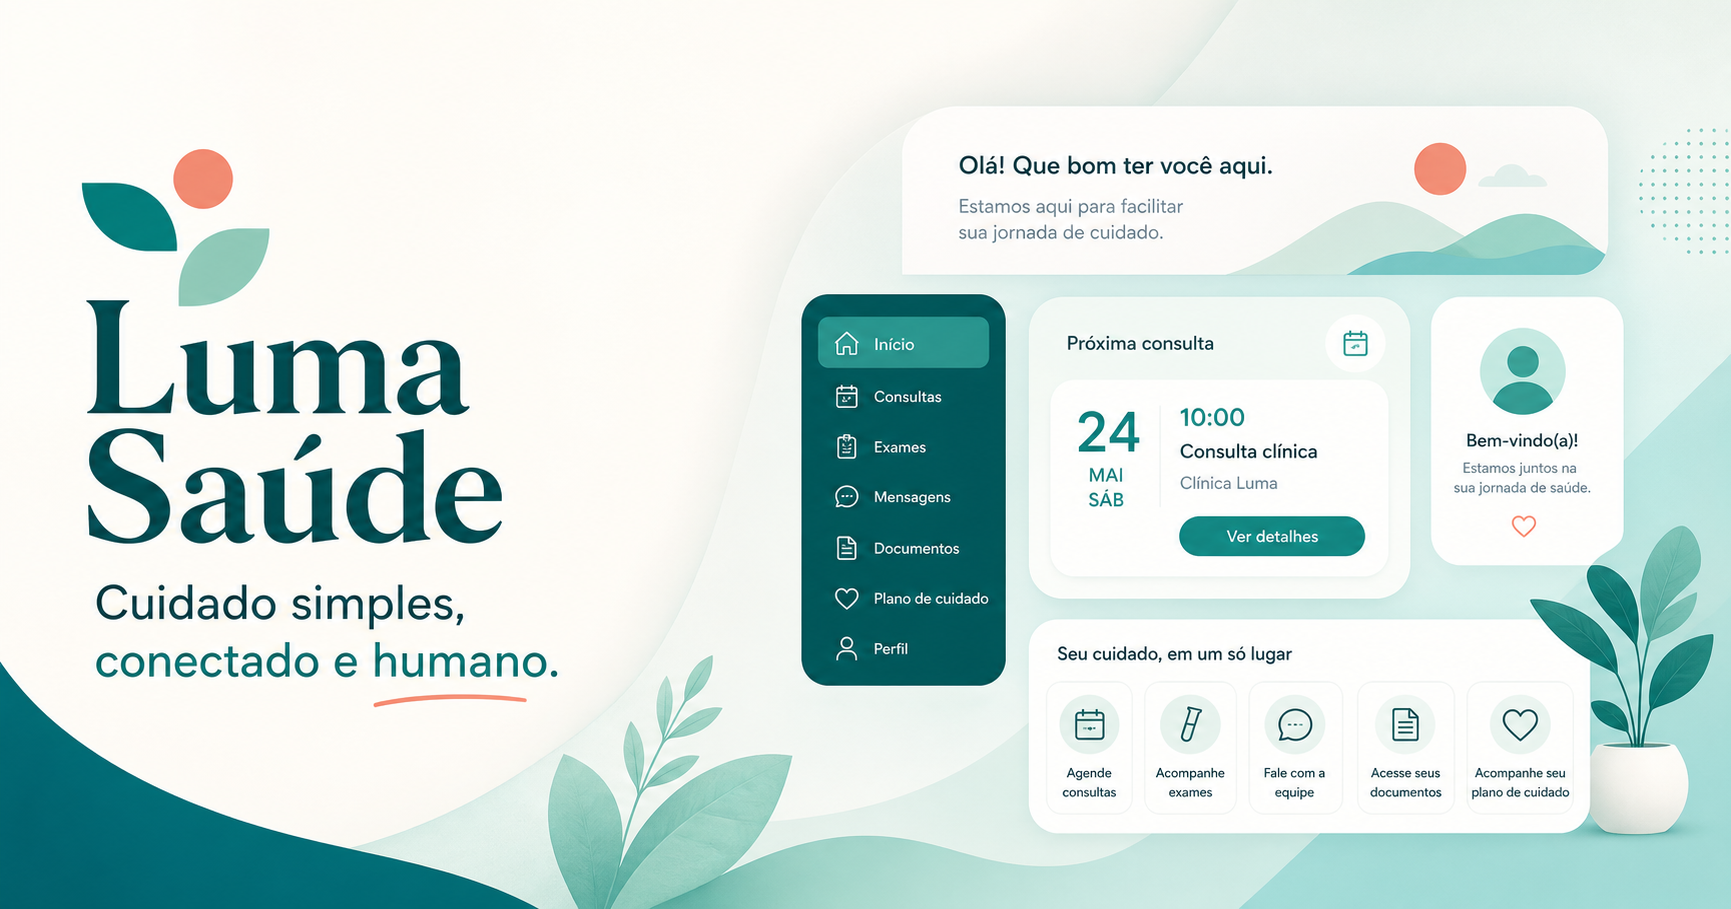
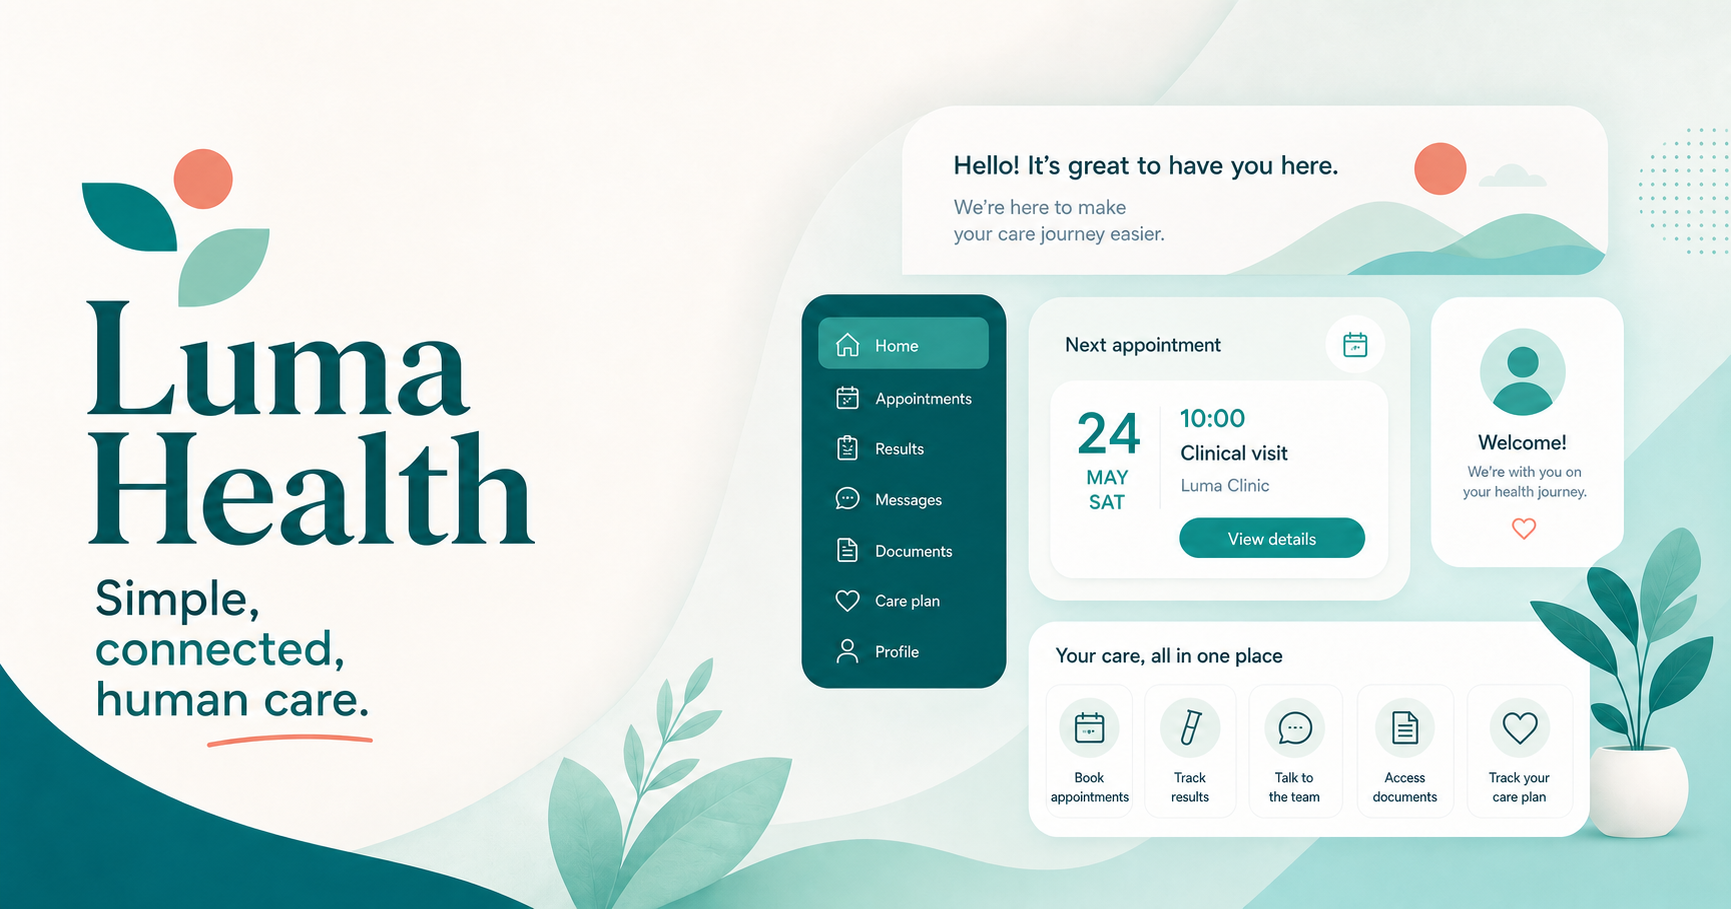
Translate Luma Health experience to English

diff --git a/app/page.tsx b/app/page.tsx
@@ -6,17 +6,17 @@ type Role = "patient" | "staff";
 type Toast = { title: string; message: string } | null;
 
 const appointments = [
-  { time: "08:30", patient: "Riley Smith", type: "Consulta de rotina", status: "Confirmada" },
-  { time: "09:15", patient: "Maria Lopez", type: "Acompanhamento", status: "Aguardando" },
-  { time: "10:00", patient: "Alex Carter", type: "Primeira consulta", status: "Confirmada" },
-  { time: "11:30", patient: "Priya Shah", type: "Retorno", status: "Confirmada" },
+  { time: "8:30 AM", patient: "Riley Smith", type: "Routine visit", status: "Confirmed" },
+  { time: "9:15 AM", patient: "Maria Lopez", type: "Follow-up", status: "Waiting" },
+  { time: "10:00 AM", patient: "Alex Carter", type: "First appointment", status: "Confirmed" },
+  { time: "11:30 AM", patient: "Priya Shah", type: "Follow-up", status: "Confirmed" },
 ];
 
-const navItems = ["Visão geral", "Consultas", "Formulários", "Resultados", "Mensagens"];
+const navItems = ["Overview", "Appointments", "Forms", "Results", "Messages"];
 
 export default function Home() {
   const [role, setRole] = useState<Role>("patient");
-  const [activeNav, setActiveNav] = useState("Visão geral");
+  const [activeNav, setActiveNav] = useState("Overview");
   const [showBooking, setShowBooking] = useState(false);
   const [appointmentBooked, setAppointmentBooked] = useState(false);
   const [intakeComplete, setIntakeComplete] = useState(false);
@@ -24,7 +24,7 @@ export default function Home() {
   const [toast, setToast] = useState<Toast>(null);
 
   const dateLabel = useMemo(() =>
-    new Intl.DateTimeFormat("pt-BR", { weekday: "long", day: "numeric", month: "long" })
+    new Intl.DateTimeFormat("en-US", { weekday: "long", day: "numeric", month: "long" })
       .format(new Date(2026, 6, 24)), []);
 
   function notify(title: string, message: string) {
@@ -36,30 +36,30 @@ export default function Home() {
     event.preventDefault();
     setAppointmentBooked(true);
     setShowBooking(false);
-    notify("Consulta agendada", "Sua consulta foi confirmada para 24 de julho, às 10:30.");
+    notify("Appointment booked", "Your appointment is confirmed for July 24 at 10:30 AM.");
   }
 
   function requestRefill() {
     setRefillStatus("pending");
-    notify("Solicitação enviada", "A equipe da clínica já pode revisar sua renovação.");
+    notify("Request submitted", "The clinic team can now review your refill request.");
   }
 
   function approveRefill() {
     setRefillStatus("approved");
-    notify("Renovação aprovada", "O paciente receberá a atualização no portal.");
+    notify("Refill approved", "The patient will see the update in the portal.");
   }
 
   return (
     <main className="app-shell">
-      <aside className="sidebar" aria-label="Navegação principal">
+      <aside className="sidebar" aria-label="Main navigation">
         <div className="brand">
           <span className="brand-mark" aria-hidden="true"><i></i><b></b></span>
-          <span>Luma <strong>Saúde</strong></span>
+          <span>Luma <strong>Health</strong></span>
         </div>
 
-        <div className="profile-switcher" aria-label="Trocar perfil de demonstração">
-          <button className={role === "patient" ? "active" : ""} onClick={() => setRole("patient")}>Paciente</button>
-          <button className={role === "staff" ? "active" : ""} onClick={() => setRole("staff")}>Equipe</button>
+        <div className="profile-switcher" aria-label="Switch demo profile">
+          <button className={role === "patient" ? "active" : ""} onClick={() => setRole("patient")}>Patient</button>
+          <button className={role === "staff" ? "active" : ""} onClick={() => setRole("staff")}>Staff</button>
         </div>
 
         <nav>
@@ -72,31 +72,31 @@ export default function Home() {
             >
               <span className="nav-icon" aria-hidden="true">{["⌂", "□", "≡", "＋", "○"][index]}</span>
               {item}
-              {item === "Mensagens" && <span className="nav-badge">2</span>}
+              {item === "Messages" && <span className="nav-badge">2</span>}
             </button>
           ))}
         </nav>
 
         <div className="sidebar-help">
           <span className="help-icon">?</span>
-          <div><strong>Precisa de ajuda?</strong><small>Fale com nossa equipe</small></div>
+          <div><strong>Need help?</strong><small>Contact our team</small></div>
         </div>
         <div className="sidebar-user">
           <span className="avatar">{role === "patient" ? "ML" : "TN"}</span>
-          <div><strong>{role === "patient" ? "Maria Lopez" : "Thiago Nunes"}</strong><small>{role === "patient" ? "Paciente demo" : "Administrador"}</small></div>
+          <div><strong>{role === "patient" ? "Maria Lopez" : "Thiago Nunes"}</strong><small>{role === "patient" ? "Demo patient" : "Administrator"}</small></div>
           <span className="more">•••</span>
         </div>
       </aside>
 
       <section className="workspace">
         <header className="topbar">
-          <button className="mobile-brand" onClick={() => setActiveNav("Visão geral")} aria-label="Voltar à visão geral">
-            <span className="brand-mark small" aria-hidden="true"><i></i><b></b></span>Luma Saúde
+          <button className="mobile-brand" onClick={() => setActiveNav("Overview")} aria-label="Back to overview">
+            <span className="brand-mark small" aria-hidden="true"><i></i><b></b></span>Luma Health
           </button>
           <div className="top-actions">
-            <button className="icon-button" aria-label="Buscar">⌕</button>
-            <button className="icon-button notification" aria-label="Notificações">♢<span></span></button>
-            <div className="top-user"><span className="avatar">{role === "patient" ? "ML" : "TN"}</span><div><strong>{role === "patient" ? "Maria Lopez" : "Thiago Nunes"}</strong><small>{role === "patient" ? "Paciente" : "Equipe clínica"}</small></div></div>
+            <button className="icon-button" aria-label="Search">⌕</button>
+            <button className="icon-button notification" aria-label="Notifications">♢<span></span></button>
+            <div className="top-user"><span className="avatar">{role === "patient" ? "ML" : "TN"}</span><div><strong>{role === "patient" ? "Maria Lopez" : "Thiago Nunes"}</strong><small>{role === "patient" ? "Patient" : "Clinic staff"}</small></div></div>
           </div>
         </header>
 
@@ -108,14 +108,14 @@ export default function Home() {
             intakeComplete={intakeComplete}
             refillStatus={refillStatus}
             onBook={() => setShowBooking(true)}
-            onCompleteIntake={() => { setIntakeComplete(true); notify("Formulário concluído", "Suas respostas foram salvas para a próxima consulta."); }}
+            onCompleteIntake={() => { setIntakeComplete(true); notify("Form completed", "Your answers were saved for your next appointment."); }}
             onRequestRefill={requestRefill}
           />
         ) : (
           <StaffDashboard refillStatus={refillStatus} onApproveRefill={approveRefill} />
         )}
 
-        <nav className="mobile-nav" aria-label="Navegação móvel">
+        <nav className="mobile-nav" aria-label="Mobile navigation">
           {navItems.slice(0, 4).map((item, index) => <button key={item} className={activeNav === item ? "active" : ""} onClick={() => setActiveNav(item)}><span>{["⌂", "□", "≡", "＋"][index]}</span>{item.split(" ")[0]}</button>)}
         </nav>
       </section>
@@ -138,67 +138,67 @@ function PatientDashboard({ activeNav, dateLabel, appointmentBooked, intakeCompl
 }) {
   return <div className="page-content">
     <div className="welcome-row">
-      <div><p className="eyebrow">PORTAL DO PACIENTE</p><h1>{activeNav === "Visão geral" ? "Olá, Maria." : activeNav}</h1><p className="subtitle">{activeNav === "Visão geral" ? "Aqui está um resumo dos seus cuidados hoje." : "Acompanhe suas informações de saúde em um só lugar."}</p></div>
-      <button className="primary-button" onClick={onBook}><span>＋</span> Agendar consulta</button>
+      <div><p className="eyebrow">PATIENT PORTAL</p><h1>{activeNav === "Overview" ? "Hello, Maria." : activeNav}</h1><p className="subtitle">{activeNav === "Overview" ? "Here is a summary of your care today." : "Keep track of your health information in one place."}</p></div>
+      <button className="primary-button" onClick={onBook}><span>＋</span> Book appointment</button>
     </div>
 
     <section className="hero-card">
       <div className="hero-copy">
-        <span className="status-pill"><i></i> PRÓXIMA CONSULTA</span>
-        <p className="hero-date">{appointmentBooked ? "24 de julho" : "Hoje, 24 de julho"}</p>
-        <h2>{appointmentBooked ? "Consulta de acompanhamento" : "Consulta com Dra. Ana Costa"}</h2>
-        <p className="doctor"><span className="doctor-avatar">AC</span><span><strong>Dra. Ana Costa</strong><small>Clínica Geral · Sala 204</small></span></p>
+        <span className="status-pill"><i></i> NEXT APPOINTMENT</span>
+        <p className="hero-date">{appointmentBooked ? "July 24" : "Today, July 24"}</p>
+        <h2>{appointmentBooked ? "Follow-up appointment" : "Appointment with Dr. Ana Costa"}</h2>
+        <p className="doctor"><span className="doctor-avatar">AC</span><span><strong>Dr. Ana Costa</strong><small>Primary Care · Room 204</small></span></p>
       </div>
       <div className="appointment-time">
-        <strong>{appointmentBooked ? "10:30" : "14:30"}</strong><span>horário local</span>
-        <button>Ver detalhes <span>→</span></button>
+        <strong>{appointmentBooked ? "10:30 AM" : "2:30 PM"}</strong><span>local time</span>
+        <button>View details <span>→</span></button>
       </div>
       <div className="hero-decoration" aria-hidden="true"><i></i><b></b><em></em></div>
     </section>
 
-    <div className="section-heading"><div><h2>Ações rápidas</h2><p>O que você gostaria de fazer?</p></div></div>
+    <div className="section-heading"><div><h2>Quick actions</h2><p>What would you like to do?</p></div></div>
     <section className="quick-grid">
-      <QuickCard color="blue" icon="□" title="Agendar consulta" text="Escolha o melhor dia e horário" action="Agendar agora" onClick={onBook} />
-      <QuickCard color="coral" icon="≡" title="Formulário de admissão" text={intakeComplete ? "Formulário enviado com sucesso" : "Leva cerca de 3 minutos"} action={intakeComplete ? "Concluído" : "Preencher formulário"} onClick={onCompleteIntake} done={intakeComplete} />
-      <QuickCard color="mint" icon="↗" title="Renovar medicamento" text={refillStatus === "approved" ? "Renovação aprovada pela clínica" : refillStatus === "pending" ? "Em análise pela equipe" : "Solicite de forma rápida e segura"} action={refillStatus === "approved" ? "Aprovada" : refillStatus === "pending" ? "Em análise" : "Solicitar renovação"} onClick={onRequestRefill} done={refillStatus !== "none"} />
+      <QuickCard color="blue" icon="□" title="Book an appointment" text="Choose the best date and time" action="Book now" onClick={onBook} />
+      <QuickCard color="coral" icon="≡" title="Intake form" text={intakeComplete ? "Form submitted successfully" : "Takes about 3 minutes"} action={intakeComplete ? "Completed" : "Complete form"} onClick={onCompleteIntake} done={intakeComplete} />
+      <QuickCard color="mint" icon="↗" title="Request a refill" text={refillStatus === "approved" ? "Refill approved by the clinic" : refillStatus === "pending" ? "Under staff review" : "Request it quickly and securely"} action={refillStatus === "approved" ? "Approved" : refillStatus === "pending" ? "Under review" : "Request refill"} onClick={onRequestRefill} done={refillStatus !== "none"} />
     </section>
 
     <section className="content-grid">
       <div className="panel activity-panel">
-        <div className="panel-heading"><div><h2>Atividade recente</h2><p>Suas últimas atualizações</p></div><button>Ver todas</button></div>
-        <Activity icon="✓" color="green" title="Resultado disponível" text="Hemograma completo" time="Hoje, 09:42" action="Visualizar" />
-        <Activity icon="↗" color="purple" title={refillStatus === "approved" ? "Renovação aprovada" : "Resumo da consulta"} text={refillStatus === "approved" ? "Losartana 50 mg" : "Consulta de 12 de julho"} time={refillStatus === "approved" ? "Agora" : "12 jul, 16:20"} action="Abrir" />
-        <Activity icon="✉" color="orange" title="Nova mensagem" text="Equipe de atendimento" time="10 jul, 11:15" action="Responder" />
+        <div className="panel-heading"><div><h2>Recent activity</h2><p>Your latest updates</p></div><button>View all</button></div>
+        <Activity icon="✓" color="green" title="Result available" text="Complete blood count" time="Today, 9:42 AM" action="View" />
+        <Activity icon="↗" color="purple" title={refillStatus === "approved" ? "Refill approved" : "Visit summary"} text={refillStatus === "approved" ? "Losartan 50 mg" : "July 12 appointment"} time={refillStatus === "approved" ? "Now" : "Jul 12, 4:20 PM"} action="Open" />
+        <Activity icon="✉" color="orange" title="New message" text="Care team" time="Jul 10, 11:15 AM" action="Reply" />
       </div>
       <aside className="panel care-panel">
-        <div className="care-header"><span className="care-mark">♥</span><div><h2>Seu cuidado em dia</h2><p>Continue assim, Maria!</p></div></div>
+        <div className="care-header"><span className="care-mark">♥</span><div><h2>Your care is on track</h2><p>Keep it up, Maria!</p></div></div>
         <div className="progress-ring"><span>75<small>%</small></span></div>
-        <div className="care-copy"><strong>3 de 4 tarefas concluídas</strong><p>Complete seu formulário antes da próxima consulta.</p></div>
-        <button onClick={onCompleteIntake}>{intakeComplete ? "Tudo pronto" : "Continuar tarefa"} <span>→</span></button>
+        <div className="care-copy"><strong>3 of 4 tasks completed</strong><p>Complete your form before your next appointment.</p></div>
+        <button onClick={onCompleteIntake}>{intakeComplete ? "All set" : "Continue task"} <span>→</span></button>
       </aside>
     </section>
-    <p className="date-note">Dados de demonstração · {dateLabel}</p>
+    <p className="date-note">Demo data · {dateLabel}</p>
   </div>;
 }
 
 function StaffDashboard({ refillStatus, onApproveRefill }: { refillStatus: "none" | "pending" | "approved"; onApproveRefill: () => void }) {
   return <div className="page-content">
-    <div className="welcome-row"><div><p className="eyebrow">PAINEL DA CLÍNICA</p><h1>Bom dia, Thiago.</h1><p className="subtitle">Acompanhe a agenda e as solicitações que precisam de atenção.</p></div><button className="secondary-button">⌕ Buscar paciente</button></div>
+    <div className="welcome-row"><div><p className="eyebrow">CLINIC DASHBOARD</p><h1>Good morning, Thiago.</h1><p className="subtitle">Track today&apos;s schedule and requests that need attention.</p></div><button className="secondary-button">⌕ Search patients</button></div>
     <section className="metric-grid">
-      <Metric value="12" label="Consultas hoje" detail="4 aguardando" tone="blue" />
-      <Metric value={refillStatus === "pending" ? "3" : "2"} label="Renovações pendentes" detail="Revisar solicitações" tone="coral" />
-      <Metric value="5" label="Formulários recebidos" detail="2 novos hoje" tone="mint" />
+      <Metric value="12" label="Appointments today" detail="4 waiting" tone="blue" />
+      <Metric value={refillStatus === "pending" ? "3" : "2"} label="Pending refills" detail="Review requests" tone="coral" />
+      <Metric value="5" label="Forms received" detail="2 new today" tone="mint" />
     </section>
     <section className="staff-layout">
       <div className="panel schedule-panel">
-        <div className="panel-heading"><div><h2>Agenda de hoje</h2><p>Quinta-feira, 24 de julho</p></div><button>Ver agenda</button></div>
-        {appointments.map(item => <div className="schedule-row" key={item.time}><strong>{item.time}</strong><span className="patient-avatar">{item.patient.split(" ").map(n => n[0]).join("")}</span><div><b>{item.patient}</b><small>{item.type}</small></div><span className={`queue-status ${item.status === "Aguardando" ? "waiting" : ""}`}>{item.status}</span><button aria-label={`Abrir prontuário de ${item.patient}`}>→</button></div>)}
+        <div className="panel-heading"><div><h2>Today&apos;s schedule</h2><p>Friday, July 24</p></div><button>View schedule</button></div>
+        {appointments.map(item => <div className="schedule-row" key={item.time}><strong>{item.time}</strong><span className="patient-avatar">{item.patient.split(" ").map(n => n[0]).join("")}</span><div><b>{item.patient}</b><small>{item.type}</small></div><span className={`queue-status ${item.status === "Waiting" ? "waiting" : ""}`}>{item.status}</span><button aria-label={`Open ${item.patient}'s record`}>→</button></div>)}
       </div>
       <div className="panel request-panel">
-        <div className="panel-heading"><div><h2>Solicitações</h2><p>Precisam da sua atenção</p></div><span className="count-badge">{refillStatus === "pending" ? 3 : 2}</span></div>
-        {refillStatus === "pending" && <div className="request-card highlighted"><div className="request-top"><span className="patient-avatar">ML</span><div><strong>Maria Lopez</strong><small>Renovação · Losartana 50 mg</small></div><span>Agora</span></div><p>Uso contínuo · Última renovação há 30 dias.</p><div className="request-actions"><button className="reject">Recusar</button><button className="approve" onClick={onApproveRefill}>Aprovar</button></div></div>}
-        <div className="request-card"><div className="request-top"><span className="patient-avatar lavender">AC</span><div><strong>Alex Carter</strong><small>Formulário de admissão</small></div><span>12 min</span></div><button className="text-action">Revisar formulário →</button></div>
-        <div className="request-card"><div className="request-top"><span className="patient-avatar peach">PS</span><div><strong>Priya Shah</strong><small>Alteração de consulta</small></div><span>28 min</span></div><button className="text-action">Abrir solicitação →</button></div>
+        <div className="panel-heading"><div><h2>Requests</h2><p>Need your attention</p></div><span className="count-badge">{refillStatus === "pending" ? 3 : 2}</span></div>
+        {refillStatus === "pending" && <div className="request-card highlighted"><div className="request-top"><span className="patient-avatar">ML</span><div><strong>Maria Lopez</strong><small>Refill · Losartan 50 mg</small></div><span>Now</span></div><p>Ongoing medication · Last refill 30 days ago.</p><div className="request-actions"><button className="reject">Decline</button><button className="approve" onClick={onApproveRefill}>Approve</button></div></div>}
+        <div className="request-card"><div className="request-top"><span className="patient-avatar lavender">AC</span><div><strong>Alex Carter</strong><small>Intake form</small></div><span>12 min</span></div><button className="text-action">Review form →</button></div>
+        <div className="request-card"><div className="request-top"><span className="patient-avatar peach">PS</span><div><strong>Priya Shah</strong><small>Appointment change</small></div><span>28 min</span></div><button className="text-action">Open request →</button></div>
       </div>
     </section>
   </div>;
@@ -217,5 +217,5 @@ function Metric({ value, label, detail, tone }: { value: string; label: string; 
 }
 
 function BookingModal({ onClose, onSubmit }: { onClose: () => void; onSubmit: (event: FormEvent<HTMLFormElement>) => void }) {
-  return <div className="modal-backdrop" onMouseDown={onClose}><div className="modal" role="dialog" aria-modal="true" aria-labelledby="booking-title" onMouseDown={event => event.stopPropagation()}><button className="modal-close" onClick={onClose} aria-label="Fechar">×</button><p className="eyebrow">NOVA CONSULTA</p><h2 id="booking-title">Encontre um horário</h2><p>Escolha a especialidade e o melhor horário para você.</p><form onSubmit={onSubmit}><label>Especialidade<select defaultValue="Clínica Geral"><option>Clínica Geral</option><option>Cardiologia</option><option>Dermatologia</option></select></label><label>Profissional<select defaultValue="Dra. Ana Costa"><option>Dra. Ana Costa</option><option>Dr. João Lima</option></select></label><fieldset><legend>Horários disponíveis · 24 de julho</legend><div className="time-options"><label><input type="radio" name="time" value="09:00" />09:00</label><label><input type="radio" name="time" value="10:30" defaultChecked />10:30</label><label><input type="radio" name="time" value="15:00" />15:00</label></div></fieldset><button className="primary-button full" type="submit">Confirmar agendamento</button></form></div></div>;
+  return <div className="modal-backdrop" onMouseDown={onClose}><div className="modal" role="dialog" aria-modal="true" aria-labelledby="booking-title" onMouseDown={event => event.stopPropagation()}><button className="modal-close" onClick={onClose} aria-label="Close">×</button><p className="eyebrow">NEW APPOINTMENT</p><h2 id="booking-title">Find a time</h2><p>Choose a specialty and the time that works best for you.</p><form onSubmit={onSubmit}><label>Specialty<select defaultValue="Primary Care"><option>Primary Care</option><option>Cardiology</option><option>Dermatology</option></select></label><label>Provider<select defaultValue="Dr. Ana Costa"><option>Dr. Ana Costa</option><option>Dr. John Lima</option></select></label><fieldset><legend>Available times · July 24</legend><div className="time-options"><label><input type="radio" name="time" value="09:00" />9:00 AM</label><label><input type="radio" name="time" value="10:30" defaultChecked />10:30 AM</label><label><input type="radio" name="time" value="15:00" />3:00 PM</label></div></fieldset><button className="primary-button full" type="submit">Confirm appointment</button></form></div></div>;
 }

diff --git a/app/layout.tsx b/app/layout.tsx
@@ -9,23 +9,23 @@ export async function generateMetadata(): Promise<Metadata> {
   const imageUrl = `${protocol}://${host}/og.png`;
 
   return {
-    title: "Luma Saúde | Portal do Paciente",
-    description: "Cuidado simples, conectado e humano.",
+    title: "Luma Health | Patient Portal",
+    description: "Simple, connected, human care.",
     openGraph: {
-      title: "Luma Saúde",
-      description: "Cuidado simples, conectado e humano.",
+      title: "Luma Health",
+      description: "Simple, connected, human care.",
       type: "website",
-      images: [{ url: imageUrl, width: 1734, height: 909, alt: "Portal Luma Saúde" }],
+      images: [{ url: imageUrl, width: 1734, height: 909, alt: "Luma Health patient portal" }],
     },
     twitter: {
       card: "summary_large_image",
-      title: "Luma Saúde",
-      description: "Cuidado simples, conectado e humano.",
+      title: "Luma Health",
+      description: "Simple, connected, human care.",
       images: [imageUrl],
     },
   };
 }
 
 export default function RootLayout({ children }: Readonly<{ children: React.ReactNode }>) {
-  return <html lang="pt-BR"><body>{children}</body></html>;
+  return <html lang="en"><body>{children}</body></html>;
 }